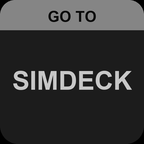
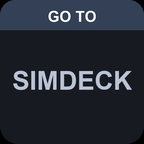
GO TO SIMDECK key on CP Test Bed: slate #344055

Changed region(s): [[0.0, 0.0, 1.0, 0.2222]]

diff --git a/tools/testbed_images/panel_keys.py b/tools/testbed_images/panel_keys.py
@@ -28,12 +28,12 @@ import colorsys
 # sampled from their old key pictures; ChasePlane is its Remote's Pilot cyan, as on the live deck.
 APPS = {
     "chaseplane": (190, 79), "sayintentions": (43, 75), "anyflight": (220, 85), "gsx": (295, 60),
-    "ifly": (355, 75), "weather": (130, 55), "apps": (218, 24), "screenshot": (320, 70), "simdeck": (0, 0),
+    "ifly": (355, 75), "weather": (130, 55), "apps": (218, 24), "screenshot": (320, 70), "simdeck": (218, 24),
     # The CP DECK key: its own amber, because the WX Deck keys share ChasePlane's cyan (owner, 2026-11-01).
     "cpdeck": (41, 100),
 }
 # A band color the owner picked exactly, instead of the recipe's 52% lightness.
-EXACT_BAND = {"cpdeck": (0xFF, 0xAE, 0x03), "apps": (0x34, 0x40, 0x55)}
+EXACT_BAND = {"cpdeck": (0xFF, 0xAE, 0x03), "apps": (0x34, 0x40, 0x55), "simdeck": (0x34, 0x40, 0x55)}
 
 def hsl(h, s, l):
     r, g, b = colorsys.hls_to_rgb(h / 360, l / 100, s / 100)
